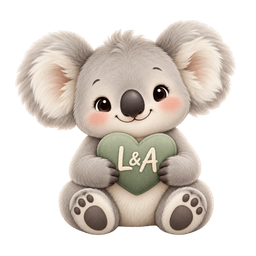
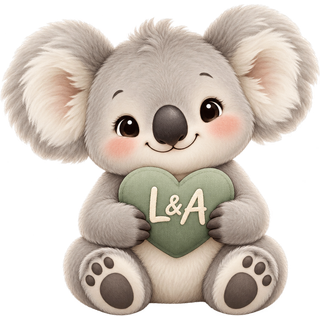
Refresh koala branding and check PWA updates on return

diff --git a/src/screens.tsx b/src/screens.tsx
@@ -27,7 +27,7 @@ export function HomeScreen({go}:{go:(section:NavSection,date?:string,tab?:'calc'
   const [week,setWeek]=useStored('guideWeek',1)
   const phase=twelveWeekPlan.find(x=>{const [first,last]=x.weeks.split('–').map(Number);return week>=first&&week<=(last??first)})!
   return <>
-    <section className="welcome-card"><div><p className="eyebrow">PASO A PASO, A TU RITMO</p><h2>Un plan para<br/>sentirte más fuerte.</h2><p>Tu guía de entreno, ideas para comer y un espacio para ver tu evolución.</p></div><img className="hero-koala" src="./koala-la.png" alt="Koala tierno sosteniendo un corazón con L&A" width="180" height="180"/></section>
+    <section className="welcome-card"><div><p className="eyebrow">PASO A PASO, A TU RITMO</p><h2>Un plan para<br/>sentirte más fuerte.</h2><p>Tu guía de entreno, ideas para comer y un espacio para ver tu evolución.</p></div><img className="hero-koala" src="./plan-la-koala.png" alt="Koala tierno sosteniendo un corazón con L&A" width="180" height="180"/></section>
     <section className="hero-card"><div><p className="eyebrow">{dateLabel(today)}</p><h2>{day.title}</h2><p>{day.objective}</p><span className="status">{day.optional?'Complementario opcional':day.type==='cardio'?'Solo cardio':day.type==='recovery'?'Día de recuperación':'Guía de la sesión'}</span></div><button className="primary" onClick={()=>go('training',today)}>Ver entrenamiento<ChevronRight size={18}/></button></section>
     <section className="card"><div className="section-head"><div><p className="eyebrow">TU OBJETIVO</p><h2>Técnica, constancia y progresión</h2></div><Heart size={25}/></div><p>Construir fuerza en glúteos y piernas, trabajar el core y mantener el equilibrio con tren superior y recuperación.</p><label>Semana del plan<select value={week} onChange={e=>setWeek(+e.target.value)}>{Array.from({length:12},(_,i)=><option key={i} value={i+1}>Semana {i+1}</option>)}</select></label><div className="goal-callout"><strong>{phase.name}</strong><p>{phase.guidance}</p></div><p className="small-note">Selecciona la semana que estés siguiendo; no es un contador de sesiones completadas.</p></section>
     <div className="guide-links"><button onClick={()=>go('nutrition')}><Salad/><strong>Ideas para comer</strong><span>Desayunos, comidas y alternativas</span><ChevronRight/></button><button onClick={()=>go('progress')}><Heart/><strong>Mi evolución</strong><span>Medidas, energía e hip thrust</span><ChevronRight/></button><button onClick={()=>go('more',undefined,'calc')}><Calculator/><strong>Calculadoras</strong><span>Estimaciones con tus propios datos</span><ChevronRight/></button></div>

diff --git a/src/App.tsx b/src/App.tsx
@@ -24,9 +24,18 @@ function Workspace(){
   const [loadError,setLoadError]=useState(false)
   const [online,setOnline]=useState(navigator.onLine)
   const [toast,notify]=useState('')
+  const [registration,setRegistration]=useState<ServiceWorkerRegistration>()
   const {needRefresh:[needRefresh],updateServiceWorker}=useRegisterSW({onRegisteredSW(_url,registration){
-    if(registration)window.addEventListener('focus',()=>{if(navigator.onLine)void registration.update().catch(()=>{})})
+    setRegistration(registration)
   }})
+  useEffect(()=>{
+    if(!registration)return
+    const check=()=>{if(navigator.onLine&&document.visibilityState==='visible')void registration.update().catch(()=>{})}
+    check()
+    const interval=window.setInterval(check,60000)
+    window.addEventListener('focus',check);window.addEventListener('online',check)
+    return()=>{clearInterval(interval);window.removeEventListener('focus',check);window.removeEventListener('online',check)}
+  },[registration])
   const reload=async()=>{
     const [w,c,p]=await Promise.all([getAll<WorkoutLog>('workoutLogs'),getAll<CardioLog>('cardioLogs'),getAll<ProgressLog>('progressLogs')])
     setWorkoutLogs(w);setCardioLogs(c);setProgressLogs(p);setReady(true);setLoadError(false)
@@ -63,5 +72,5 @@ function Workspace(){
   </div>
 }
 
-function Koala(){return <img className="koala-logo" src="./koala-la.png" alt="Koala L&A" width="64" height="64"/>}
+function Koala(){return <img className="koala-logo" src="./plan-la-koala.png" alt="Koala L&A" width="64" height="64"/>}
 export default App

diff --git a/vite.config.ts b/vite.config.ts
@@ -7,7 +7,7 @@ export default defineConfig({
     react(),
     VitePWA({
       registerType: 'prompt',
-      includeAssets: ['apple-touch-icon.png', 'offline.html'],
+      includeAssets: ['plan-la-apple-touch.png', 'offline.html'],
       manifest: {
         name: 'PLAN Lolo & alexia',
         short_name: 'Lolo & alexia',
@@ -21,9 +21,9 @@ export default defineConfig({
         lang: 'es',
         categories: ['fitness', 'health', 'lifestyle'],
         icons: [
-          { src: 'pwa-192x192.png', sizes: '192x192', type: 'image/png', purpose: 'any' },
-          { src: 'pwa-512x512.png', sizes: '512x512', type: 'image/png', purpose: 'any' },
-          { src: 'pwa-512x512-maskable.png', sizes: '512x512', type: 'image/png', purpose: 'maskable' }
+          { src: 'plan-la-icon-192.png', sizes: '192x192', type: 'image/png', purpose: 'any' },
+          { src: 'plan-la-icon-512.png', sizes: '512x512', type: 'image/png', purpose: 'any' },
+          { src: 'plan-la-icon-maskable.png', sizes: '512x512', type: 'image/png', purpose: 'maskable' }
         ]
       },
       workbox: {

diff --git a/index.html b/index.html
@@ -9,8 +9,9 @@
     <meta name="apple-mobile-web-app-status-bar-style" content="default" />
     <meta name="apple-mobile-web-app-title" content="PLAN Lolo & alexia" />
     <meta name="description" content="Tu guía de entrenamiento, ideas para comer y progreso privado." />
-    <link rel="apple-touch-icon" href="./apple-touch-icon.png" />
-    <link rel="icon" type="image/png" href="./pwa-192x192.png" />
+    <link rel="apple-touch-icon" href="./plan-la-apple-touch.png" />
+    <link rel="icon" type="image/png" sizes="192x192" href="./plan-la-icon-192.png" />
+    <link rel="shortcut icon" href="./favicon.ico" />
     <title>PLAN Lolo & alexia</title>
   </head>
   <body>

diff --git a/design/BRANDING.md b/design/BRANDING.md
@@ -2,7 +2,7 @@
 
 ## Koala L&A
 
-Generado con la herramienta integrada ImageGen; original en `design/koala-la-source.png`, recurso preparado en `public/koala-la.png`, e iconos derivados de 180, 192 y 512 px, con versión maskable. Animación suave mediante CSS; reduce movimiento la desactiva.
+Generado con la herramienta integrada ImageGen; original en `design/koala-la-source.png`, recurso preparado en `public/plan-la-koala.png`, e iconos derivados de 180, 192 y 512 px, con versión maskable. Se recortaron los márgenes transparentes para mejorar la legibilidad, se renovaron las rutas de iconos y se actualizaron también favicon e icono SVG. Las rutas anteriores se conservan como alias compatibles. Animación suave mediante CSS; reduce movimiento la desactiva.
 
 Prompt final:
 
